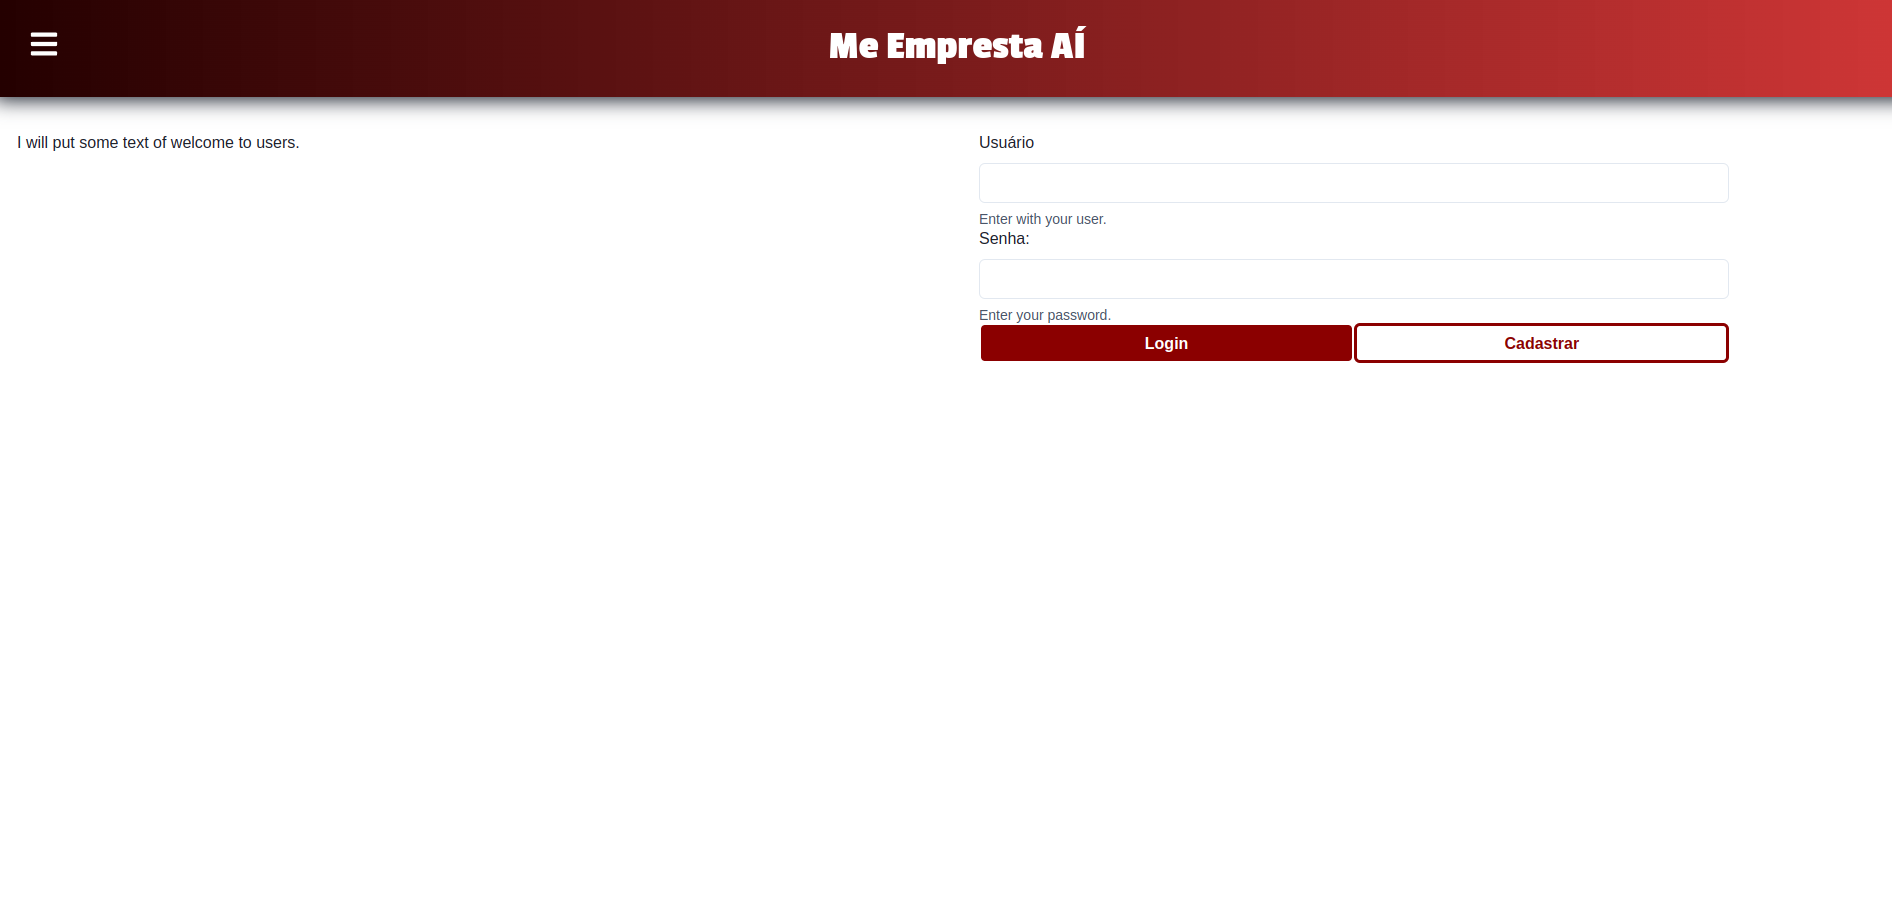
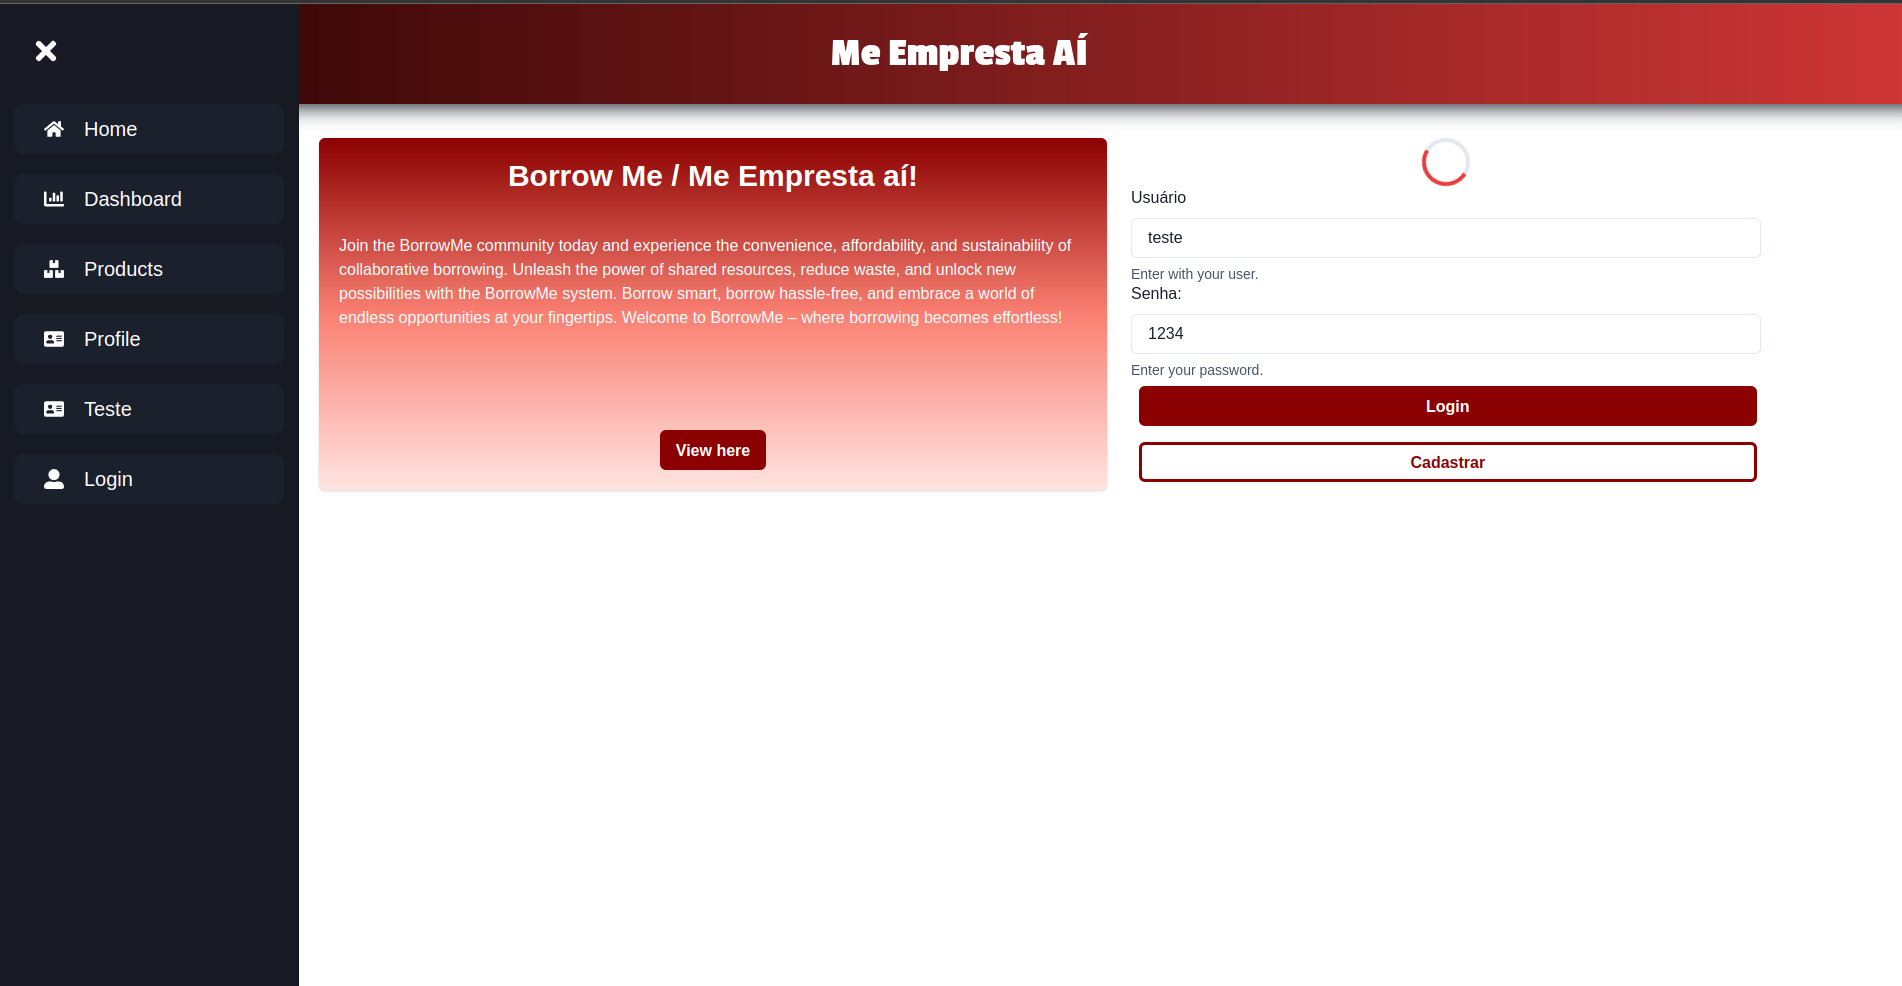
12- Adding some RequireAuth for verify roles on the routes

diff --git a/src/App.js b/src/App.js
@@ -10,10 +10,17 @@ import {Profile} from "./pages/Profile";
 import Login from "./pages/Login";
 import {AuthProvider} from "./contexts/AuthProvider";
 import {RequireAuth} from "./contexts/RequireAuth";
+import RequireAuthSecondApproach from "./contexts/RequireAuthSecondApproach";
 
 function NotFound (){
     return (
         <h1>NÃO ENCONTRADO TELA VAI SER CUSTOMIZADA.</h1>
+    )
+}
+
+function PageTest (){
+    return (
+        <h1>Only access for Customers</h1>
     )
 }
 
@@ -44,11 +51,19 @@ function App() {
                                 <Route path="/products" element={<Products/>}/>
 
                                 {/*REQUEST AUTHENTICATION TO ACCESS PROFILE*/}
+
+                                {/*THIS IS THE ONE OF APPROACH THAT VERIFY IF AUTH AND EXISTS ROLE (RequireAuthSecondApproach)*/}
+                                <Route element={<RequireAuthSecondApproach allowedRoles={['CUSTOMER']} />}>
+                                    <Route path='/test' element={<PageTest/>}/>
+                                </Route>
+
+                                {/*THIS IS THE ONE OF APPROACH THAT VERIFY IF AUTH AND EXISTS ROLE (RequireAuth)*/}
                                 <Route path="/profile" element={
-                                    <RequireAuth>
+                                    <RequireAuth allowedRoles={['COMPANY', 'CUSTOMER']}>
                                         <Profile/>
                                     </RequireAuth>
                                 }/>
+
                                 <Route path="*" element={<NotFound />} />
                             </Routes>
                         </Main>

diff --git a/src/pages/Login/index.jsx b/src/pages/Login/index.jsx
@@ -27,7 +27,9 @@ const Login = () => {
     const navigate = useNavigate();
     const location = useLocation();
 
-    const redirectPath = location.state?.path || '/';
+    const redirectPath = location.state?.path
+        || location.state?.from?.pathname
+        || '/';
 
     const isErrorUser = userRef.current?.value === ''
     const isErrorPassword =  passwordRef.current?.value === ''
@@ -42,16 +44,15 @@ const Login = () => {
         console.log('RESULTADO DO AWAIT: ',time)
 
         // todo I will do a call to service and get the ROLES
-
-
         setLoader(false)
 
         setSubmit(!submit);
         console.log('REFS: ', {'user': userRef.current?.value, 'password': passwordRef.current?.value})
 
-        // Checking if it has some inout empty
+        // Checking if it has some input empty
         if (userRef.current?.value && passwordRef.current?.value){
-            auth.login(userRef.current?.value)
+            const payload = {'user': userRef.current?.value, 'password': userRef.current?.value};
+            auth.login(payload)
             navigate(redirectPath, {replace: true});
         }
     }

diff --git a/src/components/PaginationTable/index.jsx b/src/components/PaginationTable/index.jsx
@@ -22,7 +22,7 @@ const PaginationTable = ({current, totalPage,  loading, objectsPerPage, paginate
                         <Tr>
                             {columns.map(colum => {
                                 return (
-                                    <Th>{colum}</Th>
+                                    <Th key={colum}>{colum}</Th>
                                 )
                             })}
                         </Tr>
@@ -30,7 +30,7 @@ const PaginationTable = ({current, totalPage,  loading, objectsPerPage, paginate
                     <Tbody>
                         {current ? current.map(obj=>{
                                 return(
-                                    <Tr>
+                                    <Tr key={obj.id}>
                                         <Td>{obj.id}</Td>
                                         <Td>{obj.nome}</Td>
                                         <Td>{obj.company}</Td>

diff --git a/src/contexts/RequireAuth.js b/src/contexts/RequireAuth.js
@@ -4,15 +4,22 @@ import {Navigate, useLocation} from "react-router-dom";
 /**
  * This RequireAuth component can embrace other components and check it needs auth
  * @param children
+ * @param allowedRoles
  * @returns {*|JSX.Element}
  * @constructor
  */
-export const RequireAuth = ({children}) => {
+export const RequireAuth = ({children, allowedRoles}) => {
     const location = useLocation();
     const auth = useAuth();
 
-    if (!auth.userAuth) {
-        return <Navigate to='/login' state={{path: location.pathname}} />
+    if (!auth.userAuth?.user) {
+        return <Navigate to='/login' state={{path: location.pathname}} replace/>
+    }
+
+    const hasRole = auth?.userAuth?.roles?.find(role => allowedRoles?.includes(role)) !== undefined;
+
+    if (auth?.userAuth.user && !hasRole) {
+        return <Navigate to={'/unauthorized'} state={{path: location.pathname}}/>
     }
 
     return children

diff --git a/src/contexts/RequireAuthSecondApproach.js b/src/contexts/RequireAuthSecondApproach.js
@@ -1,0 +1,23 @@
+import {useAuth} from "./AuthProvider";
+import {Navigate, Outlet, useLocation} from "react-router-dom";
+
+/**
+ * This RequireAuth is using the component Outlet and that's why we can consider another approach of RequireAuth
+ * @param allowedRoles
+ * @returns {JSX.Element}
+ * @constructor
+ */
+export const RequireAuthSecondApproach = ({allowedRoles}) => {
+    const auth = useAuth();
+    const location = useLocation();
+
+    return (
+        auth?.userAuth?.roles?.find(role => allowedRoles?.includes(role))
+            ? <Outlet/>
+            : auth?.user
+                ? <Navigate to='/unauthorized' state={{from: location}} replace />
+                : <Navigate to='/login' state={{ from:location }} replace/>
+    )
+}
+
+export default RequireAuthSecondApproach;

diff --git a/src/contexts/AuthProvider.js b/src/contexts/AuthProvider.js
@@ -3,10 +3,12 @@ import {createContext, useContext, useState} from "react";
 const AuthContext = createContext(null);
 
 export const AuthProvider = ({children}) => {
-    const [userAuth, setUserAuth] = useState();
+    const [userAuth, setUserAuth] = useState({});
 
     const login = (user) => {
-        setUserAuth(user);
+        // todo this mock 'userActive' it's only to test
+        const userActive = {...user, roles: ['CUSTOMER']}
+        setUserAuth(userActive);
     }
 
     const logout = () => {
@@ -14,7 +16,7 @@ export const AuthProvider = ({children}) => {
     }
 
     return (
-        <AuthContext.Provider value={{userAuth,login, logout}}>
+        <AuthContext.Provider value={{userAuth, login, logout}}>
             {children}
         </AuthContext.Provider>
     )

diff --git a/src/components/Sidebar/index.jsx b/src/components/Sidebar/index.jsx
@@ -30,7 +30,10 @@ const Sidebar = ({ active }) => {
                 <Link to="profile">
                     <SidebarItem Icon={FaAddressCard} Text="Profile" />
                 </Link>
-                {!auth.userAuth &&
+                <Link to="test">
+                    <SidebarItem Icon={FaAddressCard} Text="Teste" />
+                </Link>
+                {!auth.userAuth.user &&
                     <Link to="login">
                         <SidebarItem Icon={FaUserAlt} Text="Login" />
                     </Link>

diff --git a/src/pages/Profile/index.jsx b/src/pages/Profile/index.jsx
@@ -83,7 +83,7 @@ export const Profile = () => {
 
                         <Stack>
                             <CardBody>
-                                <Heading size='md'>Welcome {auth.userAuth}</Heading>
+                                <Heading size='md'>Welcome {auth.userAuth.user}</Heading>
 
                                 <Text py='2'>
                                     Here will be a some description of company or user, this description obey all rules from platform. We sales a lot of

diff --git a/README.md b/README.md
@@ -4,7 +4,7 @@ The borrow system is a web application that his goal is get easier actions of bo
 The project started and the following images are the current appearance (not finished yet).
 
 ### DashBoard
-This page the user will see all companies and products that can be borrowed `This page will have a lot changes yet`
+This page the user will see all companies and products that can be borrowed `This page will still have a lot of changes`
 ![alt text](src/assets/screens/dashBoard.png)
 
 ### Products
@@ -12,11 +12,11 @@ This page will register products that in the future are can be to borrow
 ![alt text](src/assets/screens/products.png)
 
 ### Profile
-This page will serve to professionals register their information `This page will have a few modifications yet`.
+This page will serve to professionals register their information `This page will still have a few modifications`.
 ![alt text](src/assets/screens/profile.png)
 
 ### Login
-This page will serve to authenticate, `This page is building yet`.
+This page will serve to authenticate, `This page is still building`.
 ![alt text](src/assets/screens/login.png)
 
 
